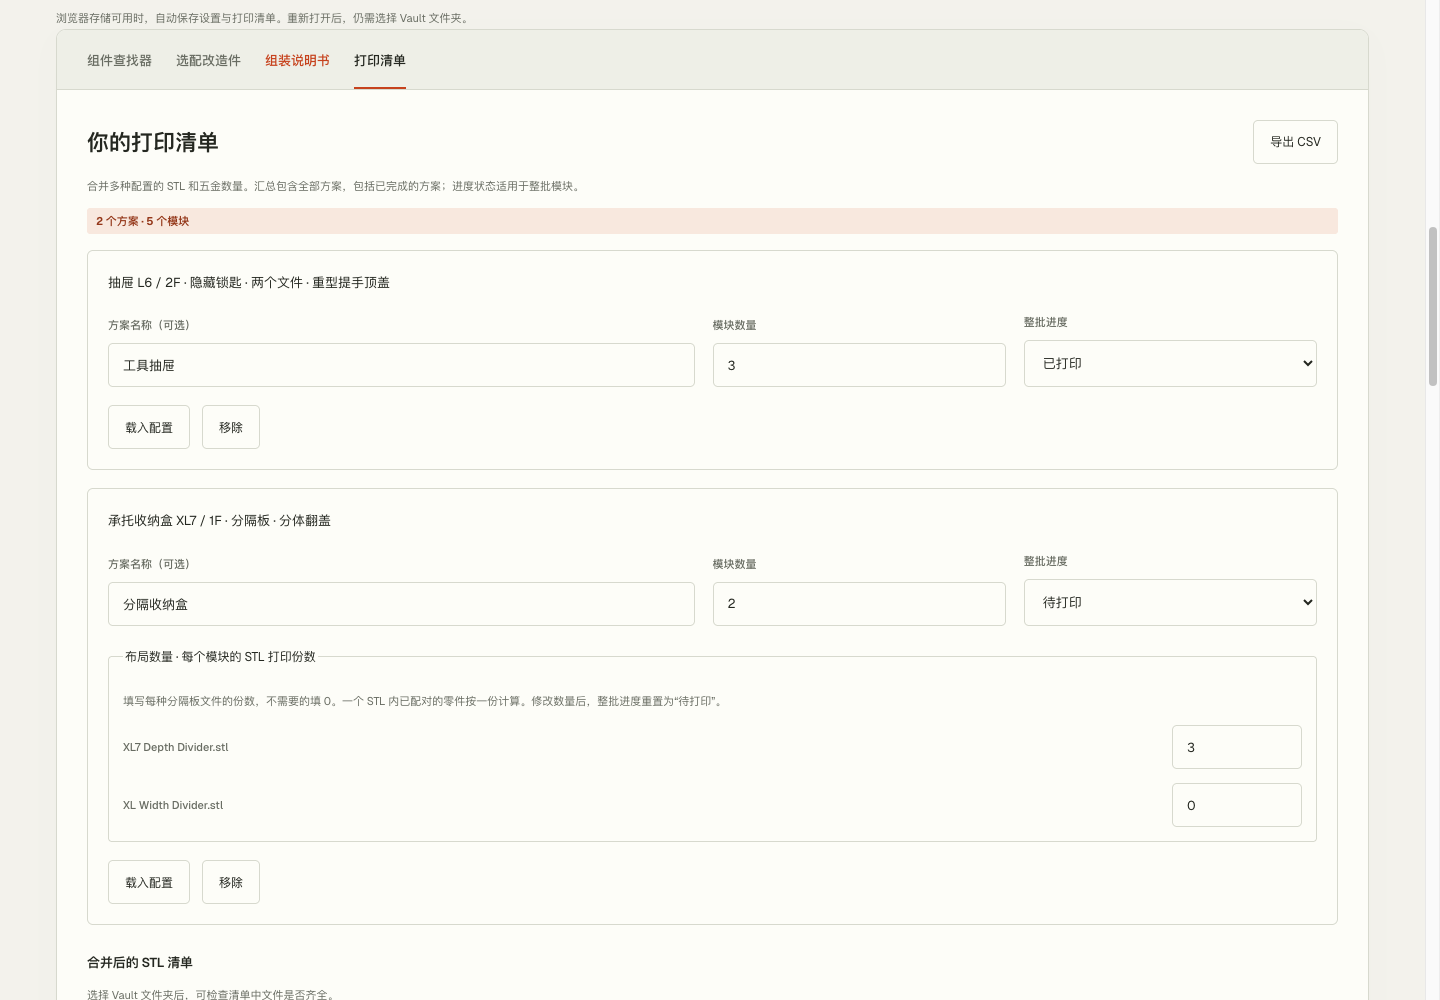
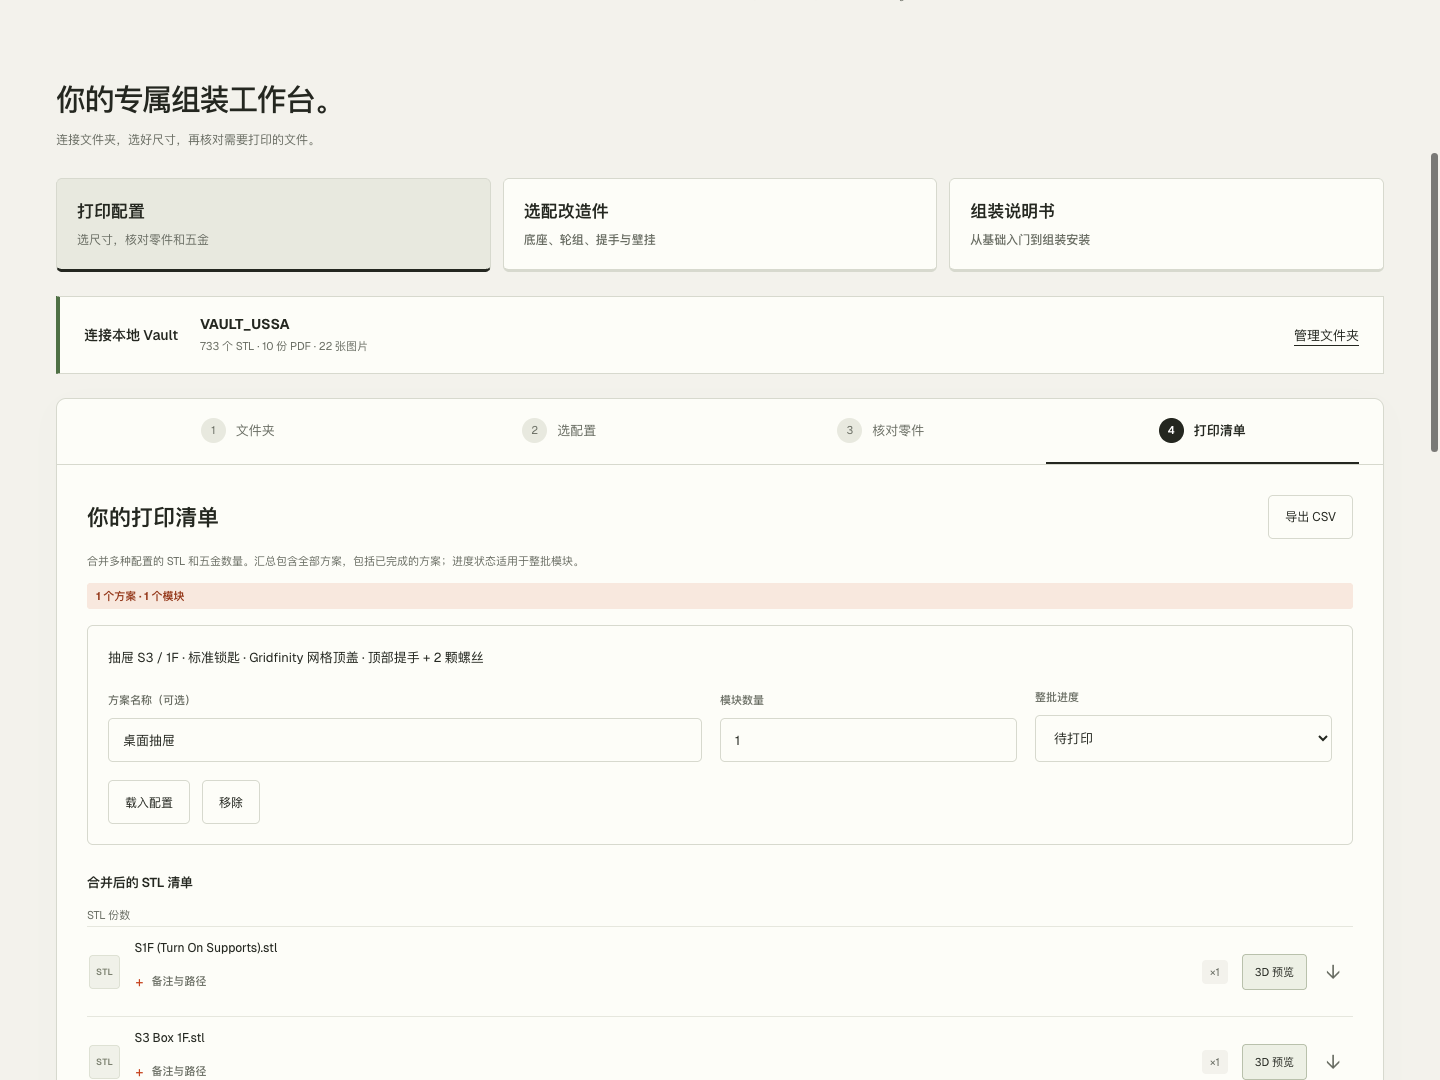
docs: 重写中英文说明并更新界面截图

diff --git a/README.en.md b/README.en.md
@@ -2,72 +2,121 @@
 
 [简体中文](README.md) | **English**
 
-An unofficial local workspace for USSA VAULT: find parts, preview STL models, read manuals, and plan your prints. No app installation or server required. Models and documents stay on your device.
+An unofficial local assembly workspace for USSA VAULT. Choose a size, check parts and hardware, preview models, and organize your print plan.
 
-![Vault assembly workspace](assets/screenshots/workspace.png)
+Plain HTML / CSS / JavaScript, with no frontend dependencies to install. STL files, manuals, and folder indexing are handled locally. Supply your own original resource pack.
+
+![Vault Workbench: size configuration, roof options, and handle hardware](assets/screenshots/workspace.png)
 
 ## Quick start
 
-1. Download and extract the project, keeping `index.html` and the complete `assets/` folder together.
-2. Open `index.html` in your browser and click **Choose Vault folder**.
-3. Select your extracted Vault resource folder and configure your parts. Use the button at the top right to switch between English and Chinese.
+1. Download and extract this repository, keeping `index.html`, `assets/`, and `scripts/` in their original relative locations.
+2. Open `index.html` in desktop Chrome. Use the top-right button to switch between English and Chinese.
+3. Click **Choose Vault folder** and select the root of your extracted resource pack.
+4. Follow **Folder → Configure → Review parts → Print plan**. You can browse sizes without a resource pack.
 
-Supply your own resource pack and keep its internal folder structure and filenames:
+Example resource folder (keep the original folder names and filenames):
 
 ```text
 My Vault/
 ├── 01. DRAWERS/
 ├── 02. SUSTAINERS/
 ├── 03. MODIFICATIONS/
-└── Manual PDFs
+├── 01_Instructions Manual.pdf
+└── …other manuals and images
 ```
 
-**Browsers with directory access support remember the folder and restore it after refreshing.** If access needs approval again, click **Reconnect folder**. Browsers without this capability or available storage still require a new selection. Use **Rescan folder** after resource updates; disconnecting forgets the folder. Language, configurations, and your print plan are also saved when browser storage is available.
+### Launch with a local server
+
+To **show the original file in its folder** from the 3D preview, install Python 3.8+ and run the appropriate launcher:
+
+| Platform | Launch |
+| --- | --- |
+| macOS | Double-click `启动预览.command` |
+| Windows | Double-click `启动预览.bat` |
+| Terminal | `python3 scripts/preview-server.py` |
+
+The default address is `http://127.0.0.1:8765/index.html`. Place the resource pack in the project directory or its parent. For another location, specify its path and select that same folder on the page:
+
+```bash
+python3 scripts/preview-server.py --resource-root "/path/to/Vault"
+```
+
+**Show in folder** selects the original STL in Finder / File Explorer. This button is hidden when opening the HTML file directly.
 
 ## Features
 
-- **Part configuration:** filter drawers, sustainers, and modifications; choose keys, roofs, and interior layouts.
-- **3D preview:** rotate and zoom STL models, inspect dimensions, and save file copies.
-- **Manuals:** read local PDFs with automatic fallback to the other available language.
-- **Print plan:** save named builds, combine STL and hardware quantities, track batch progress, and export CSV.
+| Feature | What it does |
+| --- | --- |
+| Guided configuration | Choose a drawer or case, then set its size, roof, interior, and applicable optional parts |
+| Grouped parts review | Group required files by body, mechanism, roof, and interior, expanded by default; show file counts, print quantities, and notes |
+| Hardware and assembly | Show specifications, quantities per module, uses, and manual pages; selecting the Grid roof handle also adds two M6 × 50 mm bolts |
+| 3D preview | Rotate, zoom, inspect model dimensions, and save copies; the local server also supports locating the original file |
+| Accessories and modifications | Find matching baseplates, dividers, and alternative parts; browse bases, wheels, handles, and more in eight modification categories |
+| Manuals | Choose from five guides by purpose, check local availability, jump to assembly pages, and fall back to another language when needed |
+| Print plan | Save multiple builds, combine STL and hardware quantities, enter divider quantities, track progress, and export CSV |
 
-## Print plan
+## Screenshots
 
-Choose a configuration → enter the module count → **Add to print plan** → complete layout quantities → **Export CSV**.
+These screenshots show the current Chinese interface. Click an image to view it at full size.
 
-- Quantities count **STL copies**. Parts already paired inside one file are not doubled.
-- Enter divider and other layout quantities per module; use `0` for unused files. Complete all quantities before exporting.
-- Totals include completed builds. Changing quantities resets that batch to “To print”.
-- Plans are saved in this browser and may be lost if browser data is cleared. CSV import is not supported yet.
+| Grouped parts and hardware | Local STL preview |
+| --- | --- |
+| ![Parts review: body, runners, roof handle, and matching hardware](assets/screenshots/parts-review.png) | ![3D preview: model, dimensions, and Show in folder button](assets/screenshots/stl-preview.png) |
 
-![Print plan with named builds, quantities, and batch progress](assets/screenshots/print-plan.png)
+| Modifications by purpose | Manuals and assembly guides |
+| --- | --- |
+| ![Eight modification categories with file counts](assets/screenshots/modifications.png) | ![Five manuals, a configuration recommendation, and the local PDF reader](assets/screenshots/manuals.png) |
+
+<details>
+<summary>View the print plan screenshot</summary>
+
+![Print plan: builds, module counts, and combined parts](assets/screenshots/print-plan.png)
+
+</details>
 
 ## Usage notes
 
-Local-file mode has been verified in desktop Chrome; other browsers have not received equivalent testing. 3D previews require WebGL 2, and dimensions are interpreted as millimeters. If a PDF cannot be displayed inline, open it in a new tab or download it.
+- **Counting quantities:** File counts and print quantities are shown separately. `×2` means two copies of the STL; parts already paired inside a file are not doubled. Enter layout-dependent quantities such as dividers manually, using `0` for unused parts. Complete these quantities before exporting.
+- **Adding optional parts:** **Use this option** updates the current configuration. Click **Add to print plan** afterward to save it. Browsing accessories does not add them, and changing the current configuration does not overwrite saved builds.
+- **Hardware scope:** Drawer and case hardware totals scale with the number of modules. Modification hardware is listed separately per wheel, foot, or other assembly. Unspecified installation quantities remain marked for review, with reminders in the relevant build and CSV export.
+- **Saving and restoring:** Language, configurations, and the print plan are saved in the current browser when storage is available. Browsers with directory access can remember the folder; click **Reconnect folder** if permission is needed again. Other browsers require a new selection. Use **Rescan folder** after resource updates; disconnecting forgets the folder.
+- **Data boundaries:** Different browsers, opening methods, or ports use separate browser storage. Clearing browser data may erase your plan. Export a CSV for your records; CSV import is not currently supported. **Save a copy** does not overwrite the original file.
 
-When launched with `启动预览.command` (macOS) or `启动预览.bat` (Windows), the 3D preview includes **Show in folder**, which selects the original STL in Finder / File Explorer. Python 3 is required. Place the resource pack in the project directory or its parent, or run `python3 scripts/preview-server.py --resource-root "/path/to/Vault"` and select that same folder on the page. This button is hidden when opening the HTML file directly.
+<details>
+<summary>Browser, port, and file troubleshooting</summary>
 
-The launcher uses the stable address `http://127.0.0.1:8765/index.html`, keeping browser records accessible across restarts. If the port is occupied, set another fixed port with `--port`. Plans saved at older random-port addresses are not migrated automatically; use `--port ORIGINAL_PORT` to revisit and export them.
+- Verified in desktop Chrome; other browsers have not received equivalent testing. 3D preview requires WebGL 2, and dimensions are interpreted as millimeters.
+- If a PDF cannot be displayed inline, open it in a new tab or download it.
+- Select one resource pack at a time. Missing files and filename conflicts are flagged; keep the original folder structure and filenames.
+- If the port is occupied, use `--port ANOTHER_PORT`. Plans saved at the old port are not migrated automatically; use `--port ORIGINAL_PORT` to revisit and export them.
+- Refresh the page after updating the workbench. If an old server is still running, stop it and restart the launcher.
 
-Select one resource pack at a time. Missing or conflicting files are flagged. Saving a copy does not overwrite the original. Hardware quantities follow manual references; check your actual installation requirements before assembly.
+</details>
 
 ## Development and tests
 
-Plain HTML / CSS / JavaScript with Three.js and Web Workers. In a Node.js environment with global `File`, `Blob`, and `fetch`, run from the project directory containing `index.html`:
+No build step is needed to run the project. The 3D preview uses Three.js and a Web Worker. Tests require Node.js with global `File`, `Blob`, and `fetch`, plus Python 3.
+
+Run from the repository root:
 
 ```bash
 node --test tests/*.test.cjs
+python3 -m unittest discover -s tests -p 'test_*.py'
 ```
 
-Tests locate the resource pack in the current or parent directory. Set `VAULT_RESOURCE_ROOT` to use another location. Without a resource pack, the three archive validation tests are skipped.
+After installing `agent-browser`, run browser regressions with an isolated temporary browser profile:
 
-Catalog builder and preview server tests: `python3 -m unittest discover -s tests -p 'test_*.py'`. With agent-browser installed, run `node tests/workspace.browser.cjs /path/to/agent-browser` to check plan editing, or `node tests/folder-restore.browser.cjs /path/to/agent-browser` to check folder recovery after reload. Both use isolated temporary browser profiles.
+```bash
+node tests/assembly-readiness.browser.cjs /path/to/agent-browser
+```
 
-After changing `assets/stl-worker.js`, rebuild the preview engine using the instructions in the [build script](scripts/build-stl-vendor.cjs).
+See [tests/](tests/) for other scenarios: configuration guidance, accessories, manuals, plan editing, and folder restoration. Resource validation checks the current directory and its parent, or the path set with `VAULT_RESOURCE_ROOT`. These checks are skipped when no resource pack is available.
+
+After changing `assets/stl-worker.js`, rebuild the preview engine as described in the [build script](scripts/build-stl-vendor.cjs). When reporting an issue, include your browser, how you opened the app, the selected configuration, and steps to reproduce it.
 
 ## Credits and licensing
 
-This project is not affiliated with USSA Design. VAULT models, manuals, and product images originate from [USSA Design](https://www.ussadesign.com/pages/vault). The original resource pack is not distributed with the web code.
+This project is not affiliated with USSA Design. VAULT models, manuals, and product images originate from [USSA Design](https://www.ussadesign.com/pages/vault). Original STL and PDF files are not distributed with this repository; original design content shown in screenshots belongs to its respective rights holders.
 
-Third-party licenses: [Three.js](assets/vendor/three-LICENSE.txt) · [Geist](assets/geist-LICENSE.txt). No separate project code license has been provided; third-party resources retain their original rights.
+Third-party licenses: [Three.js](assets/vendor/three-LICENSE.txt) · [Geist](assets/geist-LICENSE.txt). No separate project code license has been provided.

diff --git a/README.md b/README.md
@@ -2,72 +2,121 @@
 
 **简体中文** | [English](README.en.md)
 
-USSA VAULT 的非官方本地组装工作台：查找组件、预览 STL、阅读说明书、整理打印清单。无需安装应用或启动服务，模型和文档不上传。
+USSA VAULT 的非官方本地组装工作台。选择尺寸，核对零件和五金，预览模型，再整理成打印清单。
 
-![Vault 组装工作台](assets/screenshots/workspace.png)
+原生 HTML / CSS / JavaScript，无需安装前端依赖。STL、说明书和文件夹索引在本地处理，原始资源包需自行准备。
+
+![Vault Workbench：尺寸配置、顶盖选择与提手五金提示](assets/screenshots/workspace.png)
 
 ## 快速开始
 
-1. 下载并解压项目，保留 `index.html` 和完整的 `assets/` 文件夹。
-2. 用浏览器打开 `index.html`，点击 **Choose Vault folder（选择 Vault 文件夹）**。
-3. 选择已解压的 Vault 资源文件夹，开始配置组件。页面右上角可切换中英文。
+1. 下载并解压本仓库，保留 `index.html`、`assets/` 和 `scripts/` 的相对位置。
+2. 用桌面 Chrome 打开 `index.html`，页面右上角可切换中英文。
+3. 点击 **选择 Vault 文件夹**，选中已解压的资源包根目录。
+4. 按 **文件夹 → 选配置 → 核对零件 → 打印清单** 操作。没有资源包时，也可以先浏览规格。
 
-资源包需自行准备，请保留内部目录和文件名：
+资源目录示例（保留原包的目录和文件名）：
 
 ```text
 My Vault/
 ├── 01. DRAWERS/
 ├── 02. SUSTAINERS/
 ├── 03. MODIFICATIONS/
-└── 说明书 PDF
+├── 01_Instructions Manual.pdf
+└── …其他说明书与图片
 ```
 
-**支持目录访问的浏览器会记住文件夹，刷新后自动恢复。** 若浏览器要求重新授权，点击「重新连接」即可；不支持此能力或存储不可用时，仍需重新选择。资源更新后点击「重新扫描」，主动断开会清除目录记忆。语言、配置和打印清单也会在浏览器存储可用时自动保留。
+### 使用本地启动脚本
 
-## 核心功能
+需要在 3D 预览中 **定位到原始文件** 时，安装 Python 3.8+，再运行对应脚本：
 
-- **组件配置**：筛选抽屉、承托收纳盒和改造件，选择锁匙、顶盖及内部方案。
-- **3D 预览**：旋转、缩放 STL，查看尺寸，保存文件副本。
-- **说明书**：阅读本地 PDF；缺少当前语言版本时，自动使用另一语言版本。
-- **打印清单**：保存命名方案，合并 STL 与五金数量，记录整批进度，导出 CSV。
+| 系统 | 启动方式 |
+| --- | --- |
+| macOS | 双击 `启动预览.command` |
+| Windows | 双击 `启动预览.bat` |
+| 终端 | `python3 scripts/preview-server.py` |
 
-## 打印清单
+默认地址为 `http://127.0.0.1:8765/index.html`。资源包放在项目目录或上一级；其他位置可指定路径，并在页面选择同一个文件夹：
 
-选好配置 → 填写模块数量 → **加入打印清单** → 补齐布局数量 → **导出 CSV**。
+```bash
+python3 scripts/preview-server.py --resource-root "/path/to/Vault"
+```
 
-- 数量按 **STL 打印份数**计算，文件内已配对的零件不再翻倍。
-- 分隔板等布局数量按每模块填写，不需要的填 `0`；未填齐时无法导出。
-- 汇总包含已完成方案；修改数量会将该批进度重置为「待打印」。
-- 清单保存在当前浏览器，清除浏览器数据可能丢失；CSV 暂不支持导入。
+「定位到文件」会在 Finder / 文件资源管理器中选中原始 STL。直接打开 HTML 时不显示此按钮。
 
-![打印清单：合并方案、填写数量与记录进度](assets/screenshots/print-plan.png)
+## 功能一览
+
+| 功能 | 可以做什么 |
+| --- | --- |
+| 分步配置 | 选择抽屉或收纳盒，设置尺寸、顶盖、内部布局和适用的选装方案 |
+| 分类核对 | 按主体、机构、顶盖、内部收纳分组，默认展开；显示文件数、打印份数和备注 |
+| 五金与安装 | 列出规格、每套用量、用途和说明书页码；网格顶盖提手联动加入 2 颗 M6 × 50 mm 螺丝 |
+| 3D 预览 | 旋转、缩放、核对模型尺寸、保存副本；脚本模式支持定位原文件 |
+| 配件与改造 | 查看适配的底板、隔板和替代件；按 8 类用途浏览底座、轮组、提手等改造件 |
+| 说明书 | 按用途选择 5 本指南，查看本地可用状态，跳转相关安装页面，缺少当前语言时自动回退 |
+| 打印清单 | 保存多个方案，按套数汇总 STL 和五金，填写隔板用量，记录进度并导出 CSV |
+
+## 界面预览
+
+截图来自当前版本的中文界面，点击可查看原图。
+
+| 分类核对零件与五金 | 本地 STL 预览 |
+| --- | --- |
+| ![分类核对：主体、滑动机构、顶盖提手及配套五金](assets/screenshots/parts-review.png) | ![3D 预览：查看模型、尺寸及定位到文件按钮](assets/screenshots/stl-preview.png) |
+
+| 按用途选择改造件 | 说明书与安装指南 |
+| --- | --- |
+| ![八类选配改造件及对应文件数量](assets/screenshots/modifications.png) | ![五本说明书、当前配置推荐与本地 PDF 阅读](assets/screenshots/manuals.png) |
+
+<details>
+<summary>查看打印清单截图</summary>
+
+![打印清单：方案、套数与零件汇总](assets/screenshots/print-plan.png)
+
+</details>
 
 ## 使用说明
 
-已验证桌面 Chrome 的本地打开模式；其他浏览器尚未完成同等验证。3D 预览需要 WebGL 2，尺寸按毫米解释。PDF 无法内嵌显示时，可新窗口打开或下载。
+- **数量怎么算**：文件数量与打印份数分开显示。`×2` 表示打印两份 STL；文件内自带的成对零件不再翻倍。隔板等按布局决定的用量需要手动填写，不需要的填 `0`，填齐后才能导出。
+- **选装如何计入**：「使用此方案」更新当前配置，之后需点击「加入打印清单」。浏览配件不会自动加入，已保存方案也不会随当前选择被改写。
+- **五金的范围**：抽屉和收纳盒的五金随方案套数累计；改造件的五金按轮组、支脚等单独展示参考。原说明未明确的安装用量标为待核对，并保留在对应方案和 CSV 提示中。
+- **保存与恢复**：浏览器存储可用时，语言、配置和清单保存在当前浏览器。支持目录访问的浏览器可记住文件夹，必要时点击「重新连接」授权；不支持时需重新选择。资源更新后点击「重新扫描」，主动断开会清除目录记忆。
+- **数据边界**：不同浏览器、打开方式或端口使用不同的浏览器存储；清除浏览器数据可能丢失清单。建议导出 CSV 留存，目前不支持 CSV 导入。「保存副本」不会覆盖原文件。
 
-通过 `启动预览.command`（macOS）或 `启动预览.bat`（Windows）启动时，3D 预览中会显示「定位到文件」，在 Finder / 文件资源管理器中选中原始 STL。需要安装 Python 3；资源包放在项目目录或其上一级。其他位置可用 `python3 scripts/preview-server.py --resource-root "/你的/Vault目录"` 指定，并在页面选择同一资源文件夹。直接双击网页时不显示该按钮。
+<details>
+<summary>浏览器、端口与文件问题</summary>
 
-脚本默认使用固定地址 `http://127.0.0.1:8765/index.html`，重启后仍可访问同一份浏览器记录。端口被占用时可通过 `--port` 指定其他固定端口。旧版随机地址下的清单不会自动迁移；可用 `--port 原端口` 回到旧地址查看或导出。
+- 已验证桌面 Chrome；其他浏览器尚未完成同等验证。3D 预览需要 WebGL 2，尺寸按毫米解释。
+- PDF 无法内嵌显示时，可以新窗口打开或下载。
+- 一次选择一份资源包。缺失或重名冲突的文件会显示提示，请保留原包结构和文件名。
+- 端口被占用时，使用 `--port 其他端口`。旧端口下的清单不会自动迁移，可用 `--port 原端口` 回到原地址查看或导出。
+- 更新工作台代码后刷新页面；如果旧脚本仍在运行，先关闭旧服务再重新启动。
 
-请一次选择一份资源包。缺失或冲突的文件会显示提示；「保存副本」不会覆盖原文件。五金数量为说明书参考值，组装前请核对实际安装需求。
+</details>
 
 ## 开发与测试
 
-原生 HTML / CSS / JavaScript，使用 Three.js 和 Web Worker。在支持全局 `File`、`Blob`、`fetch` 的 Node.js 环境中，进入项目目录（`index.html` 所在目录）运行：
+项目无需构建即可运行。3D 预览使用 Three.js 和 Web Worker；测试需要支持全局 `File`、`Blob`、`fetch` 的 Node.js，以及 Python 3。
+
+在仓库根目录运行：
 
 ```bash
 node --test tests/*.test.cjs
+python3 -m unittest discover -s tests -p 'test_*.py'
 ```
 
-测试自动查找当前目录或上一级的资源包，也可通过 `VAULT_RESOURCE_ROOT` 指定路径。未提供资源包时，跳过三个真实资源校验用例。
+安装 `agent-browser` 后，可运行浏览器回归（使用隔离的临时浏览器配置）：
 
-目录生成与预览服务测试：`python3 -m unittest discover -s tests -p 'test_*.py'`。已安装 agent-browser 时，可运行 `node tests/workspace.browser.cjs /path/to/agent-browser` 检查清单编辑，运行 `node tests/folder-restore.browser.cjs /path/to/agent-browser` 检查目录刷新恢复；测试使用独立临时浏览器配置。
+```bash
+node tests/assembly-readiness.browser.cjs /path/to/agent-browser
+```
 
-修改 `assets/stl-worker.js` 后，按 [构建脚本](scripts/build-stl-vendor.cjs) 中的说明重新打包预览引擎。
+其他场景见 [tests/](tests/)：配置引导、配件、说明书、清单编辑和文件夹恢复。真实资源校验自动查找当前目录或上一级，也可设置 `VAULT_RESOURCE_ROOT`；未提供资源包时跳过对应校验。
+
+修改 `assets/stl-worker.js` 后，按 [预览引擎构建脚本](scripts/build-stl-vendor.cjs) 中的说明重新打包。反馈问题时，请附上浏览器、打开方式、配置规格和复现步骤。
 
 ## 来源与许可
 
-本项目与 USSA Design 无隶属关系。VAULT 模型、说明书及产品图片来源于 [USSA Design](https://www.ussadesign.com/pages/vault)，原始资源包不随网页代码分发。
+本项目与 USSA Design 无隶属关系。VAULT 模型、说明书及产品图片来源于 [USSA Design](https://www.ussadesign.com/pages/vault)，原始 STL 和 PDF 不随仓库分发，截图中的原始设计内容归其权利人所有。
 
-第三方许可：[Three.js](assets/vendor/three-LICENSE.txt) · [Geist](assets/geist-LICENSE.txt)。项目代码暂未提供独立许可证，第三方资源保留其原有权利。
+第三方许可：[Three.js](assets/vendor/three-LICENSE.txt) · [Geist](assets/geist-LICENSE.txt)。项目代码暂未提供独立许可证。
